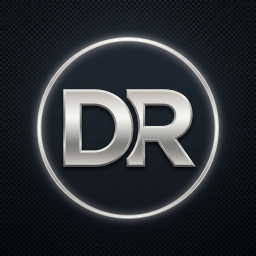
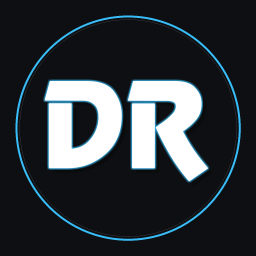
Auto-Update: 2026-05-18 15:02:53

diff --git a/generate_perfect_logo.php b/generate_perfect_logo.php
@@ -1,0 +1,93 @@
+<?php
+// PHP Script to mathematically render a premium "DR" logo using the authentic Revue font
+
+$fontFile = __DIR__ . DIRECTORY_SEPARATOR . 'revue' . DIRECTORY_SEPARATOR . 'reve.ttf';
+
+if (!file_exists($fontFile)) {
+    die("❌ Error: Font file not found at: {$fontFile}\n");
+}
+
+echo "📂 Loading Revue font from: {$fontFile}\n";
+
+$width = 1024;
+$height = 1024;
+
+// Create target canvas
+$img = imagecreatetruecolor($width, $height);
+
+// Enable alpha blending and save alpha
+imagealphablending($img, true);
+imagesavealpha($img, true);
+
+// Colors
+$bgCol = imagecolorallocate($img, 14, 15, 18); // Deep Premium Graphite Slate (#0e0f12)
+imagefill($img, 0, 0, $bgCol);
+
+// Draw a beautiful premium glowing gradient circle
+$centerX = $width / 2;
+$centerY = $height / 2;
+$outerRadius = 450;
+$innerRadius = 442;
+
+// Draw a glowing electric cyan/blue circular ring (#38bdf8) with smooth antialiasing
+for ($r = $outerRadius; $r >= $innerRadius; $r--) {
+    $opacity = 1.0 - (($outerRadius - $r) / ($outerRadius - $innerRadius));
+    $alpha = (int)((1 - $opacity) * 127);
+    $glowCol = imagecolorallocatealpha($img, 56, 189, 248, $alpha); // Electric Cyan (#38bdf8)
+    imagefilledellipse($img, $centerX, $centerY, $r * 2, $r * 2, $glowCol);
+}
+
+// Re-fill inner circle to make it a ring
+$innerBgCol = imagecolorallocate($img, 14, 15, 18);
+imagefilledellipse($img, $centerX, $centerY, $innerRadius * 2, $innerRadius * 2, $innerBgCol);
+
+// Draw an inner subtle silver trim (#e2e8f0)
+$silverCol = imagecolorallocatealpha($img, 226, 232, 240, 80);
+imageellipse($img, $centerX, $centerY, ($innerRadius - 8) * 2, ($innerRadius - 8) * 2, $silverCol);
+
+// Font settings for "DR"
+$fontSize = 320;
+$text = "DR";
+
+// Calculate bounding box to center the text perfectly
+$bbox = imagettfbbox($fontSize, 0, $fontFile, $text);
+$textWidth = $bbox[2] - $bbox[0];
+$textHeight = $bbox[1] - $bbox[7];
+
+// Fine-tuned visual offsets for Revue font centering
+$x = ($width - $textWidth) / 2 - 20; // Slight shift left to balance visual weight
+$y = ($height + $textHeight) / 2 - 40; // Center baseline vertically
+
+echo "📐 Calculated Font Box Width: {$textWidth}px, Height: {$textHeight}px\n";
+echo "🎯 Coordinates: X={$x}, Y={$y}\n";
+
+// 1. Draw a beautiful soft drop shadow for that premium "lifted" look
+$shadowOffset = 18;
+$shadowCol = imagecolorallocatealpha($img, 0, 0, 0, 95); // Heavy semi-transparent black
+imagettftext($img, $fontSize, 0, $x + $shadowOffset, $y + $shadowOffset, $shadowCol, $fontFile, $text);
+
+// 2. Draw a secondary blue glow behind the text
+$glowOffset = 6;
+$glowCol = imagecolorallocatealpha($img, 56, 189, 248, 110); // Glowing Electric Cyan
+for ($dx = -$glowOffset; $dx <= $glowOffset; $dx += 3) {
+    for ($dy = -$glowOffset; $dy <= $glowOffset; $dy += 3) {
+        if (abs($dx) + abs($dy) > 0) {
+            imagettftext($img, $fontSize, 0, $x + $dx, $y + $dy, $glowCol, $fontFile, $text);
+        }
+    }
+}
+
+// 3. Draw the main crisp white text in the foreground
+$fgCol = imagecolorallocate($img, 255, 255, 255); // Pure White
+imagettftext($img, $fontSize, 0, $x, $y, $fgCol, $fontFile, $text);
+
+// Save generated logo
+$outputPath = __DIR__ . DIRECTORY_SEPARATOR . 'dr_logo.png';
+if (imagepng($img, $outputPath)) {
+    echo "🎉 Saved perfect logo in root to: {$outputPath}\n";
+} else {
+    echo "❌ Failed to save perfect logo.\n";
+}
+
+imagedestroy($img);
+echo "✨ Generation complete!\n";

diff --git a/generate_logo_sizes.php b/generate_logo_sizes.php
@@ -1,7 +1,7 @@
 <?php
 // PHP Script to process the generated logo and output standard icon sizes with high quality and transparency support
 
-$sourcePath = 'C:\\Users\\T L S\\.gemini\\antigravity\\brain\\04bc3265-f91a-4be0-b599-99e16e644781\\drautos_logo_1779141363851.png';
+$sourcePath = __DIR__ . DIRECTORY_SEPARATOR . 'dr_logo.png';
 
 if (!file_exists($sourcePath)) {
     die("❌ Error: Source logo file not found at: {$sourcePath}\n");
@@ -93,10 +93,14 @@ if (copy($imagesDir . DIRECTORY_SEPARATOR . 'hello-icon-128.png', $faviconPath))
 
 // Save a copy in the root as dr_logo.png to update any general assets
 $rootLogoPath = __DIR__ . DIRECTORY_SEPARATOR . 'dr_logo.png';
-if (copy($sourcePath, $rootLogoPath)) {
-    echo "🎉 Saved root logo to: {$rootLogoPath}\n";
+if (realpath($sourcePath) !== realpath($rootLogoPath)) {
+    if (copy($sourcePath, $rootLogoPath)) {
+        echo "🎉 Saved root logo to: {$rootLogoPath}\n";
+    } else {
+        echo "❌ Failed to copy root logo.\n";
+    }
 } else {
-    echo "❌ Failed to copy root logo.\n";
+    echo "ℹ Root logo is already the source file.\n";
 }
 
 imagedestroy($srcImg);
